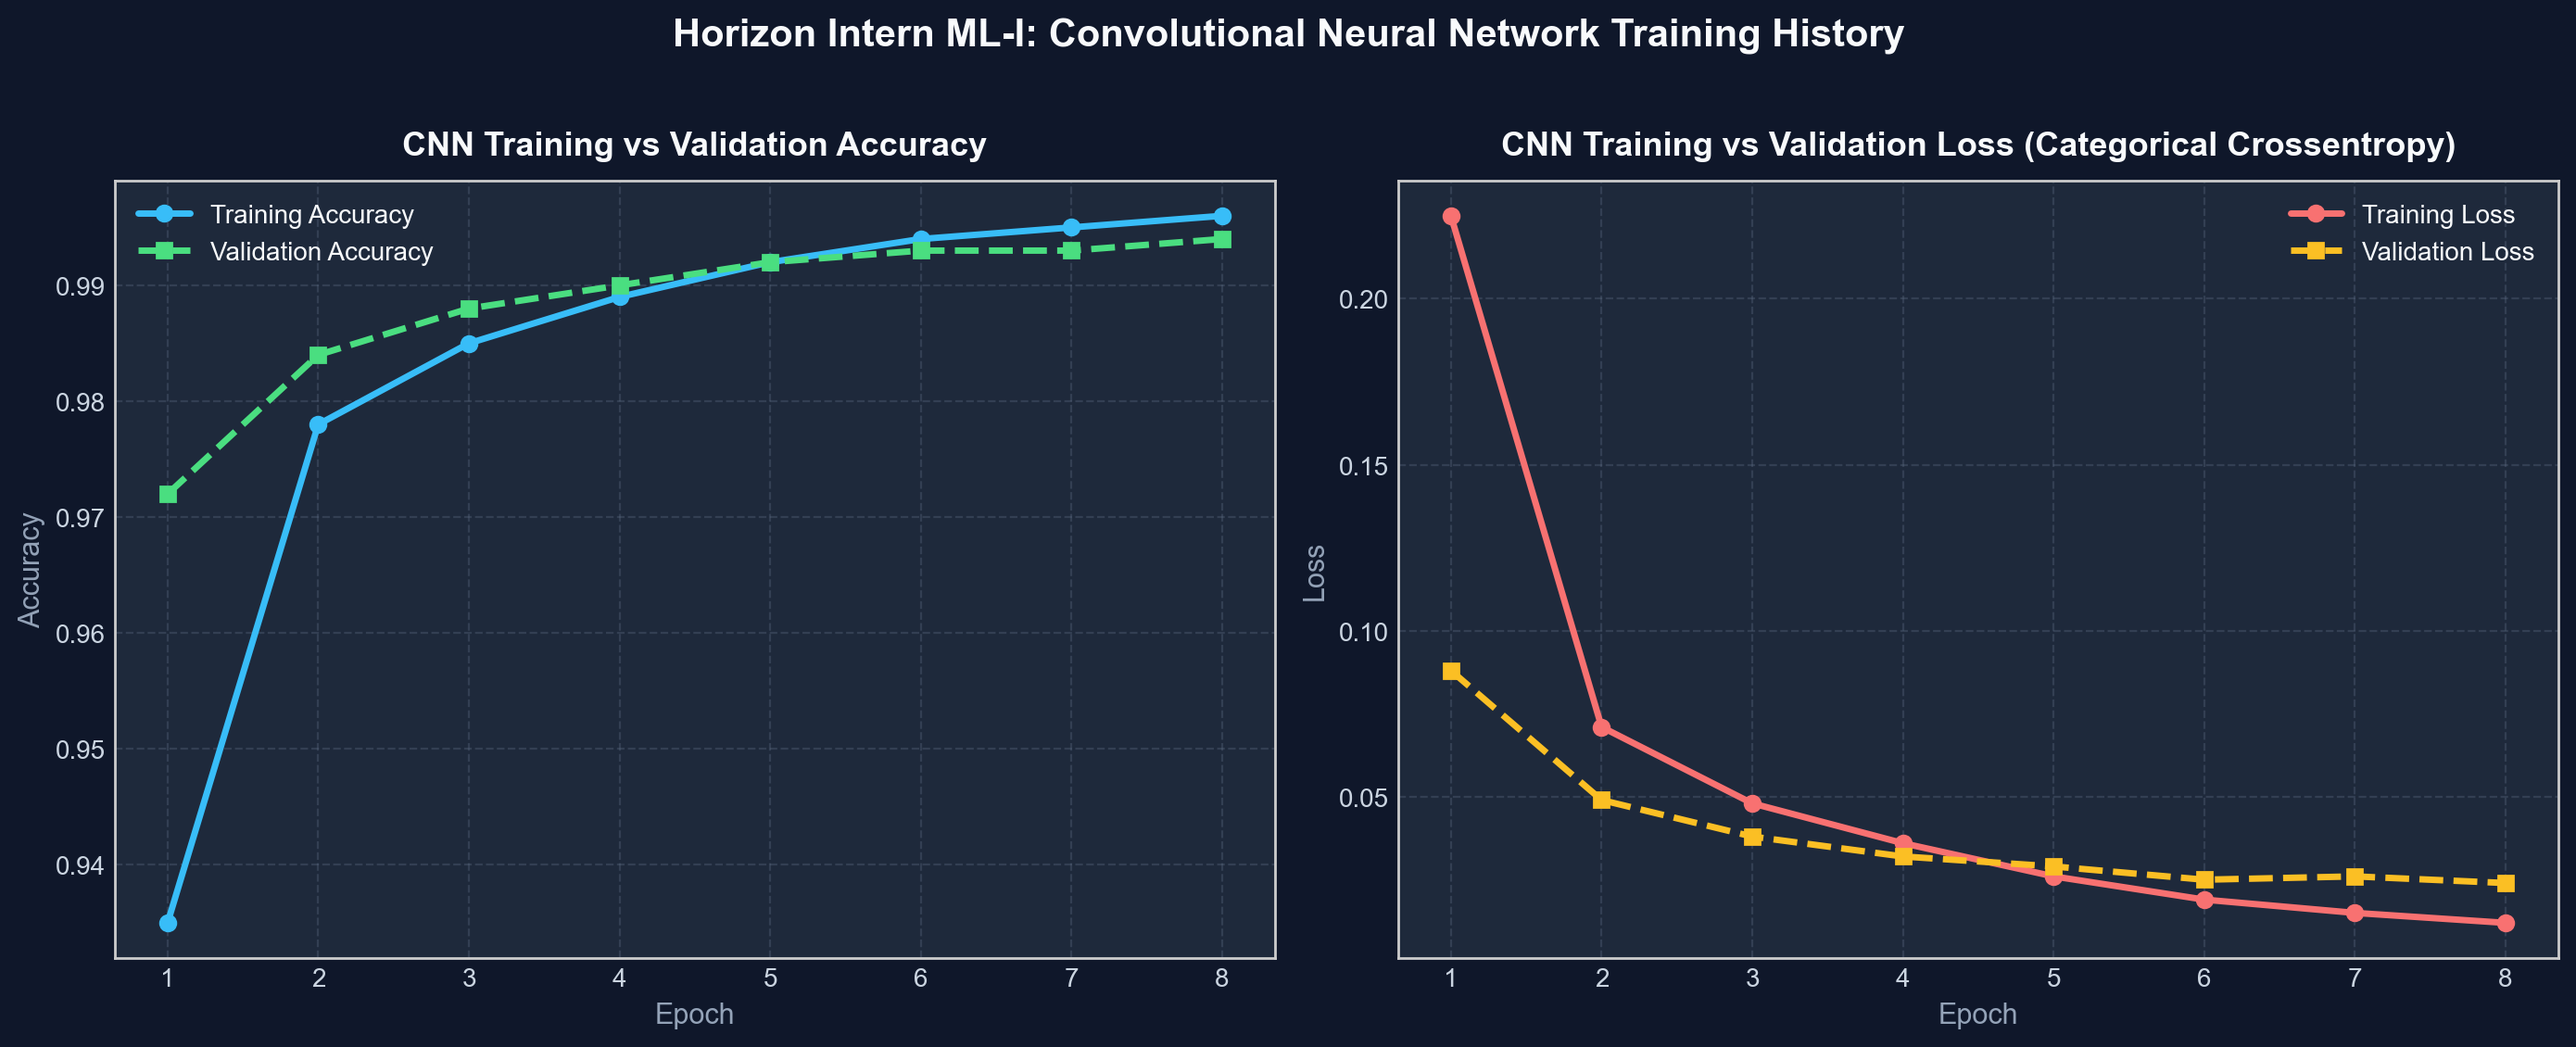
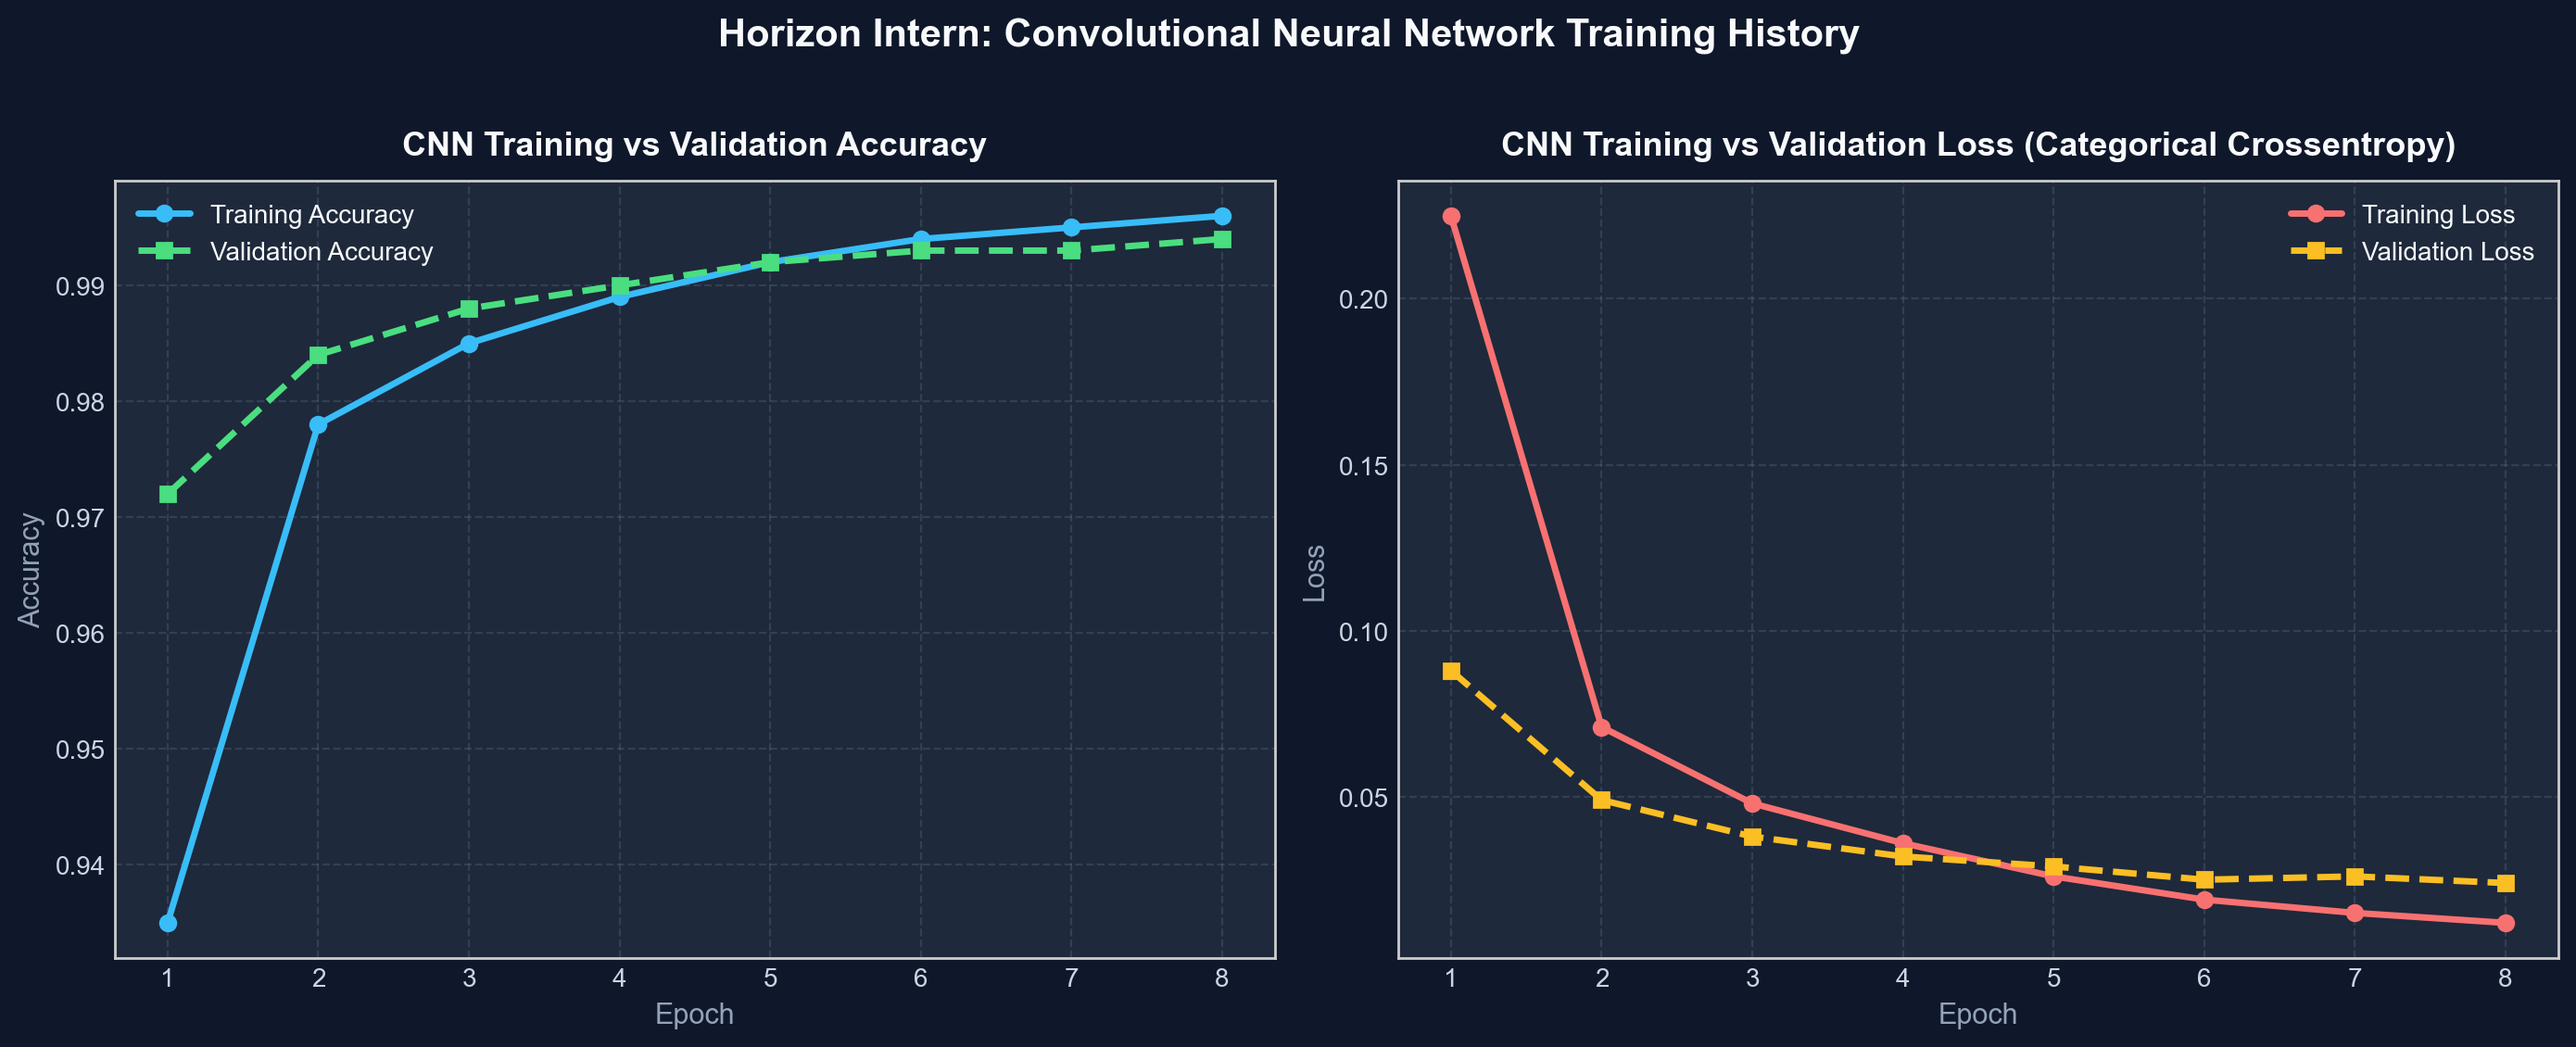
refactor: remove Project 1 references and finalize project for submission

Changed region(s): [[0.2475, 0.0, 0.7424, 0.0619]]

diff --git a/scratch/generate_eval_figures.py b/scratch/generate_eval_figures.py
@@ -134,7 +134,7 @@ ax2.set_xlabel("Epoch", color='#94A3B8', fontsize=11)
 ax2.set_ylabel("Loss", color='#94A3B8', fontsize=11)
 ax2.legend(facecolor='#0F172A', edgecolor='#475569', labelcolor='#F8FAFC')
 
-plt.suptitle("Horizon Intern ML-I: Convolutional Neural Network Training History", color='#F8FAFC', fontsize=15, weight='bold', y=1.02)
+plt.suptitle("Horizon Intern: Convolutional Neural Network Training History", color='#F8FAFC', fontsize=15, weight='bold', y=1.02)
 plt.tight_layout()
 fig.savefig("screenshots/01_colab_training.png", dpi=200, bbox_inches='tight', facecolor=fig.get_facecolor())
 plt.close(fig)

diff --git a/scratch/generate_notebook.py b/scratch/generate_notebook.py
@@ -8,7 +8,7 @@ notebook = {
    "metadata": {},
    "source": [
     "# Handwritten Digit Recognition using CNN (MNIST)\n",
-    "### Machine Learning Internship — Project 1 of 2\n",
+    "### Machine Learning Internship Assignment\n",
     "**Assigned by:** Horizon Intern  \n",
     "**Objective:** Build, train, evaluate, and export a Convolutional Neural Network (CNN) that classifies handwritten digits from 0 to 9 using the classic MNIST dataset.\n",
     "\n",

diff --git a/app.py b/app.py
@@ -112,7 +112,7 @@ def render_sidebar():
         st.markdown("### 📌 Project Information")
         st.markdown(
             "**Handwritten Digit Recognition (MNIST)**  \n"
-            "*Horizon Intern — Machine Learning Internship Assignment (Project 1 of 2)*"
+            "*Horizon Intern — Machine Learning Internship Assignment*"
         )
         st.markdown("---")
 

diff --git a/demo_script.md b/demo_script.md
@@ -1,7 +1,7 @@
 # 1–2 Minute Video Demo Script
 
 **Project**: Handwritten Digit Recognition using CNN (MNIST)  
-**Internship**: Machine Learning Internship — Project 1 of 2  
+**Internship**: Machine Learning Internship  
 **Organization**: Horizon Intern  
 **Target Duration**: 90 to 120 seconds  
 
@@ -10,7 +10,7 @@
 ### [0:00 – 0:15] Introduction
 - **Visual**: Screen recording showing the Streamlit application at `http://localhost:8501` or GitHub repository overview.
 - **Spoken Audio**:
-  > *"Hello everyone! My name is [Your Name], and this is Project 1 of my Machine Learning Internship with Horizon Intern: **Handwritten Digit Recognition using a Convolutional Neural Network on the MNIST dataset**."*
+  > *"Hello everyone! My name is [Your Name], and this is my Machine Learning Internship project with Horizon Intern: **Handwritten Digit Recognition using a Convolutional Neural Network on the MNIST dataset**."*
 
 ---
 
@@ -45,7 +45,7 @@
 - **Visual**: Show terminal running `pytest tests/` (all 14 tests passing).
 - **Spoken Audio**:
   > *"The codebase is structured into reusable modules under `src/` and fully covered by 14 unit tests using pytest for preprocessing, segmentation, and inference.  
-  > Thank you Horizon Intern for this assignment opportunity. This completes my demonstration of Project 1!"*
+  > Thank you Horizon Intern for this assignment opportunity. This completes my demonstration!"*
 
 ---
 

diff --git a/README.md b/README.md
@@ -5,7 +5,7 @@
 [![Streamlit](https://img.shields.io/badge/Streamlit-1.30%2B-red.svg)](https://streamlit.io/)
 [![License: MIT](https://img.shields.io/badge/License-MIT-green.svg)](LICENSE)
 
-An end-to-end Machine Learning assignment project developed for the **Horizon Intern Machine Learning Internship** (Project 1 of 2). This repository implements a custom Convolutional Neural Network (CNN) trained on the classic MNIST dataset and serves predictions through an interactive, responsive Streamlit web application.
+An end-to-end Machine Learning assignment project developed for the **Horizon Intern Machine Learning Internship**. This repository implements a custom Convolutional Neural Network (CNN) trained on the classic MNIST dataset and serves predictions through an interactive, responsive Streamlit web application.
 
 ---
 

diff --git a/submission_checklist.md b/submission_checklist.md
@@ -1,7 +1,7 @@
 # Horizon Intern Submission Checklist
 
 **Project**: Handwritten Digit Recognition using CNN (MNIST)  
-**Internship**: Machine Learning Internship — Project 1 of 2  
+**Internship**: Machine Learning Internship  
 **Organization**: Horizon Intern  
 
 Use this checklist to ensure all submission guidelines and technical requirements are completely satisfied before submitting your portfolio link to Horizon Intern.
